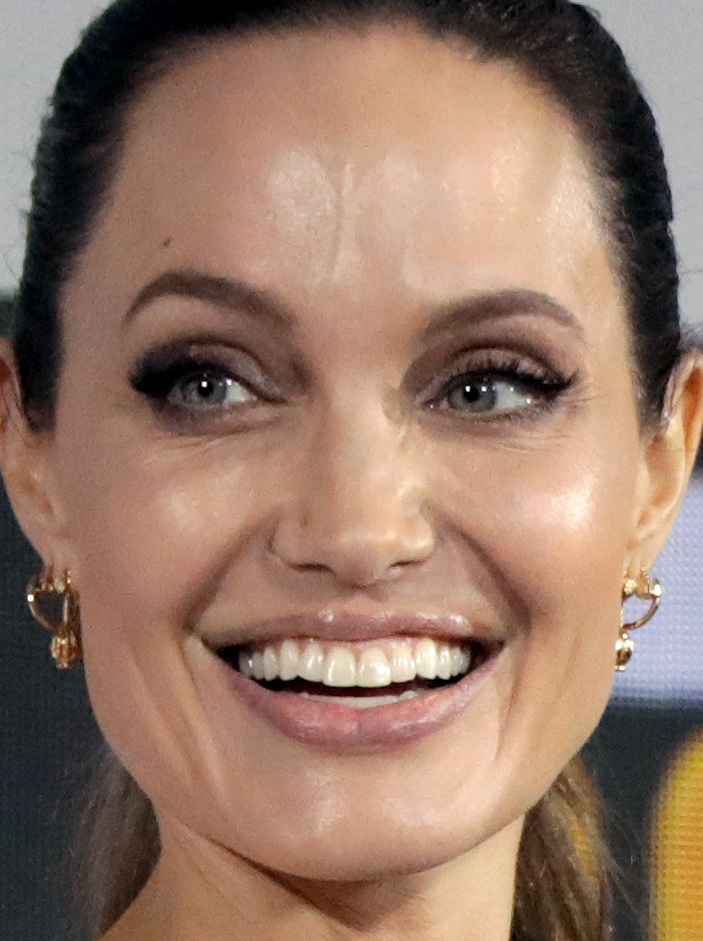
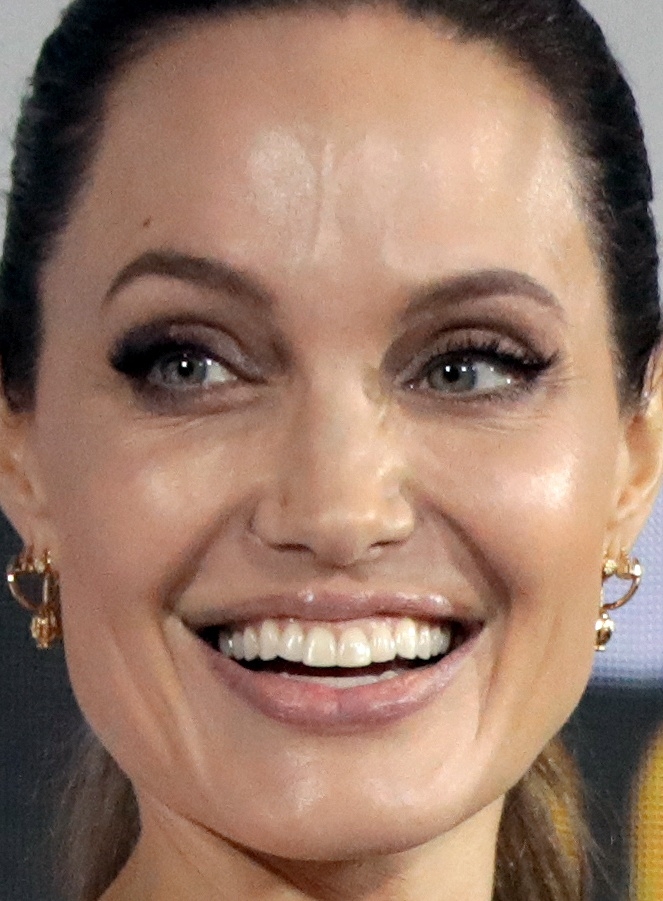
alt

diff --git a/Discrepancia/app_roboflow.py b/Discrepancia/app_roboflow.py
@@ -5,8 +5,8 @@ import supervision as sv
 from inference import get_model
 
 # Detecta e recorta a maior face
-def detectar_maior_face(image_np, model, margin=40):
-    result = model.infer(image_np, confidence=0.7)
+def detectar_maior_face(image_np, model, margin=20):
+    result = model.infer(image_np, confidence=0.5)
     detections = sv.Detections.from_inference(result[0])
 
     faces = []
@@ -29,7 +29,7 @@ def detectar_maior_face(image_np, model, margin=40):
 # Desenha todas as detecções e retorna as classes
 def desenhar_deteccoes(image_np, model):
     image_copy = image_np.copy()
-    result = model.infer(image_np, confidence=0.7)
+    result = model.infer(image_np, confidence=0.5)
     detections = sv.Detections.from_inference(result[0])
     classes_detectadas = []
 
@@ -115,10 +115,10 @@ if img1 and img2:
 
                 acessorios = [c for c in classes2 if c.lower() != "face"]
                 if acessorios:
-                    st.markdown("**Acessórios detectados:**")
+                    st.markdown("**Atributos detectados:**")
                     st.info(", ".join(set(acessorios)))
                 else:
-                    st.success("Nenhum acessório detectado.")
+                    st.success("Nenhum atributo detectado.")
 
         except Exception as e:
             st.error(f"Erro ao comparar rostos: {e}")

diff --git a/Discrepancia/detectar_camera.py b/Discrepancia/detectar_camera.py
@@ -13,11 +13,11 @@ def desenhar_deteccoes(image_np, model, confidence=0.7):
         classe = label.class_name
 
         color = {
-            "face": (0, 255, 0),
-            "hat": (255, 255, 0),
-            "glass": (255, 0, 255),
-            "bar": (0, 165, 255),
-            "mask": (255, 0, 0)
+            "face": (0, 255, 0),        # verde
+            "hat": (255, 255, 0),       # ciano
+            "glass": (255, 0, 255),     # lilás
+            "bar": (0, 165, 255),       # laranja
+            "mask": (255, 0, 0)         # vermelho
         }.get(classe.lower(), (200, 200, 200))
 
         cv2.rectangle(image_np, (x1, y1), (x2, y2), color, 3)
